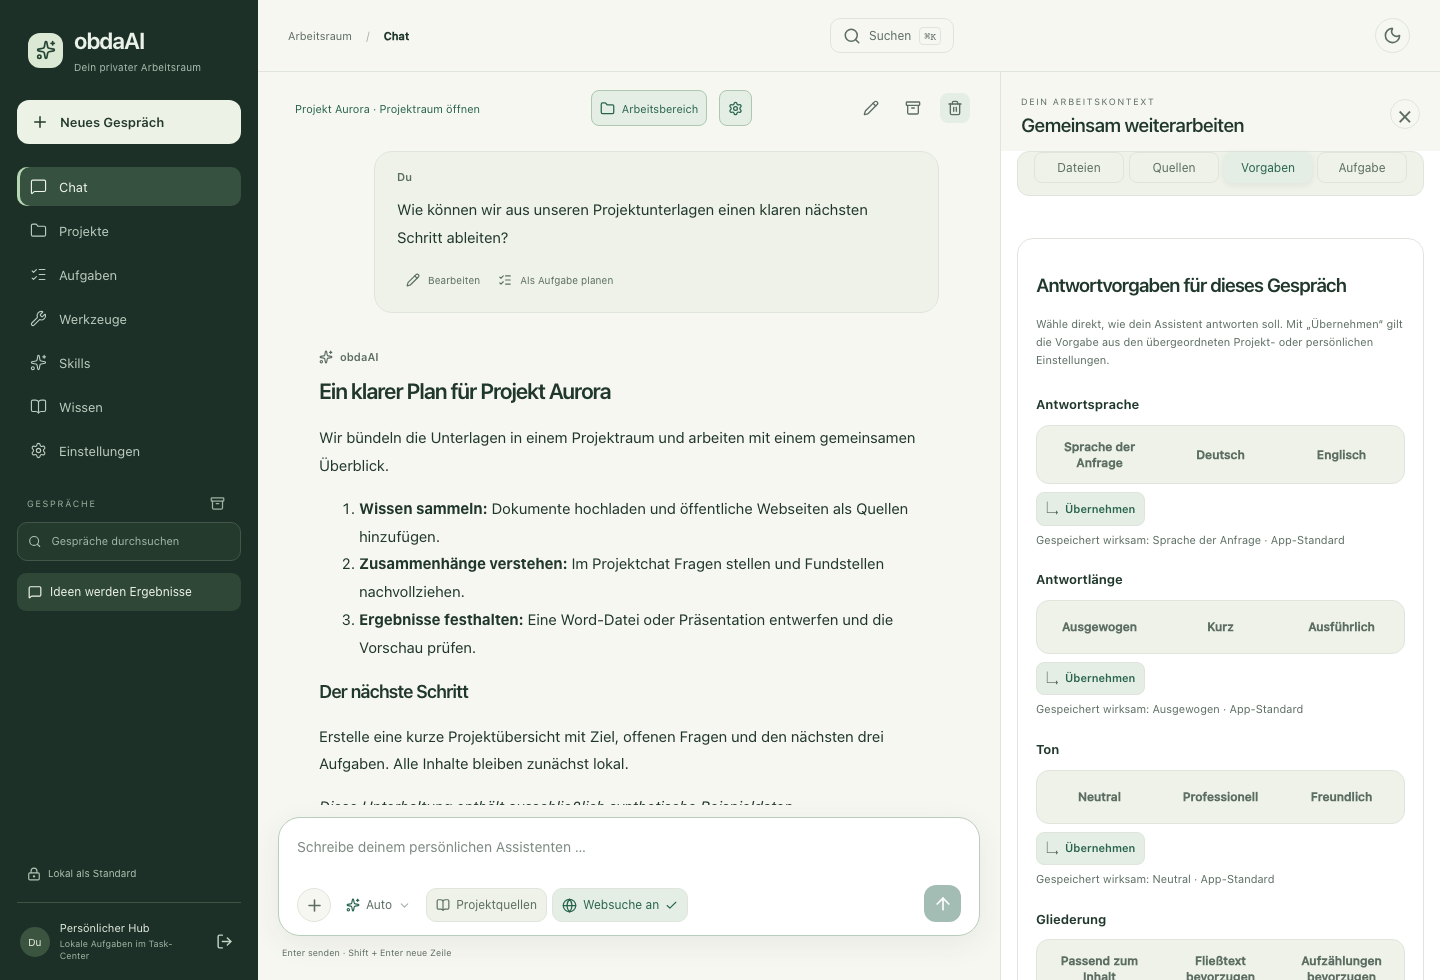
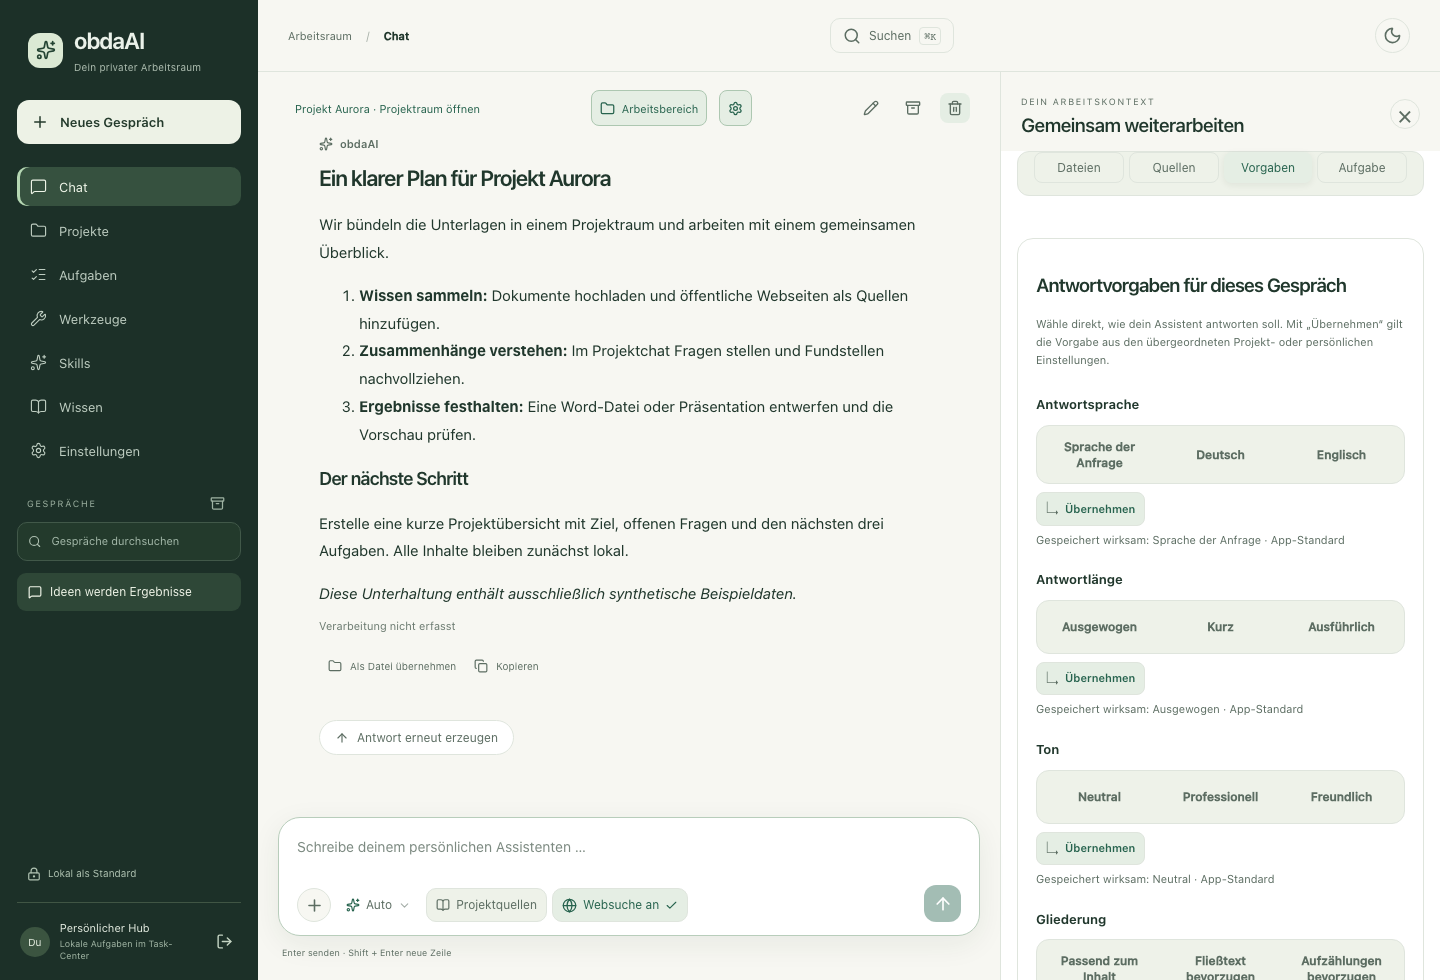
Update project showcase from c56c42ae18bf

Changed region(s): [[0.2188, 0.1224, 0.625, 0.7959]]

diff --git a/app.js b/app.js
@@ -25,7 +25,7 @@ async function init(){
  const tabs=document.querySelector('#feature-tabs');for(const group of [{id:'all',name:'Alle Features'},...project.groups]){const b=node('button',group.name);b.dataset.category=group.id;b.type='button';b.setAttribute('aria-pressed',String(group.id==='all'));b.addEventListener('click',()=>selectCategory(group.id));tabs.append(b);}
  document.querySelector('#feature-search').addEventListener('input',e=>{query=e.target.value.trim().toLocaleLowerCase('de');renderFeatures();});
  document.querySelectorAll('a[data-category]').forEach(a=>a.addEventListener('click',()=>{query='';document.querySelector('#feature-search').value='';selectCategory(a.dataset.category);}));
- const gallery=document.querySelector('#gallery-tabs');const names={chat:'Chat',projects:'Projekte',files:'Dateien',tasks:'Aufgaben',knowledge:'Wissen',security:'Sicherheit',processing:'Verarbeitung',search:'Suche','run-error':'Fehleranzeige',websettings:'Webrecherche'};project.screenshots.forEach((shot,i)=>{const b=node('button',names[shot.id]||shot.title);b.type='button';b.id='gallery-tab-'+i;b.setAttribute('role','tab');b.setAttribute('aria-controls','gallery-panel');b.addEventListener('click',()=>showScreenshot(i));b.addEventListener('keydown',e=>{if(!['ArrowLeft','ArrowRight','Home','End'].includes(e.key))return;e.preventDefault();const n=e.key==='Home'?0:e.key==='End'?project.screenshots.length-1:(i+(e.key==='ArrowRight'?1:project.screenshots.length-1))%project.screenshots.length;showScreenshot(n);gallery.children[n].focus();});gallery.append(b);});showScreenshot(0);
+ const gallery=document.querySelector('#gallery-tabs');const names={chat:'Chat',projects:'Projekte',files:'Dateien',tasks:'Aufgaben',knowledge:'Wissen',security:'Sicherheit',processing:'Verarbeitung',search:'Suche','run-error':'Fehleranzeige',websettings:'Webrecherche',chatreading:'Leseposition'};project.screenshots.forEach((shot,i)=>{const b=node('button',names[shot.id]||shot.title);b.type='button';b.id='gallery-tab-'+i;b.setAttribute('role','tab');b.setAttribute('aria-controls','gallery-panel');b.addEventListener('click',()=>showScreenshot(i));b.addEventListener('keydown',e=>{if(!['ArrowLeft','ArrowRight','Home','End'].includes(e.key))return;e.preventDefault();const n=e.key==='Home'?0:e.key==='End'?project.screenshots.length-1:(i+(e.key==='ArrowRight'?1:project.screenshots.length-1))%project.screenshots.length;showScreenshot(n);gallery.children[n].focus();});gallery.append(b);});showScreenshot(0);
  const dialog=document.querySelector('#image-dialog');document.querySelector('#expand-image').addEventListener('click',()=>{const image=document.querySelector('#dialog-image');image.src=project.screenshots[selected].image;image.alt=project.screenshots[selected].title+' – synthetische Beispieldaten';dialog.showModal();});document.querySelector('#close-image').addEventListener('click',()=>dialog.close());dialog.addEventListener('click',e=>{if(e.target===dialog)dialog.close();});
  const roadmap=document.querySelector('#roadmap-items');project.roadmap.forEach((item,i)=>{const el=node('article',undefined,'roadmap-item');el.append(node('span',String(i+1).padStart(2,'0')));const copy=node('div');copy.append(node('h4',item.title),node('p',item.text));el.append(copy);roadmap.append(el);});
  if(project.development){document.querySelector('#development-status').textContent='Neu lokal geprüft: integrierter Chat-Arbeitsbereich, einfachere Dialoge und gespeicherte Antwortvorgaben · Schema '+project.development.schema+'. '+(project.development.ciTests?project.development.ciTests+' Tests in der aktuellen CI, '+project.development.browserChecks+' synthetische Browserprüfungen. ':'')+(project.development.serverDeployment?'Arbeitsraumsuche, Passwortverwaltung, Herkunftshinweise und integrierter Arbeitsraum auf der Test-VM installiert. Lokale Antwort mit Modellhinweis und Reload geprüft; echtes Passwort unverändert. UI-Prüfungen bleiben von breiter Fakten-/Geräteabnahme getrennt.':'Noch keine Serverinstallation dieser Lieferung.');}
